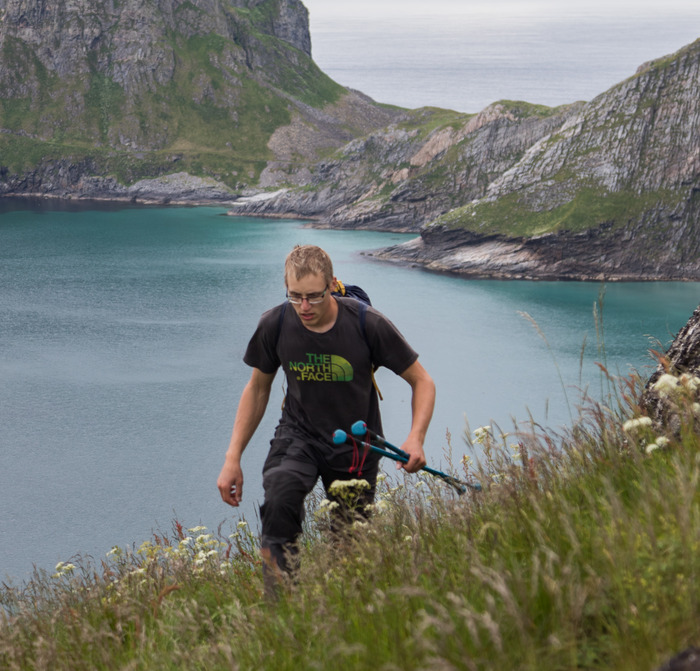
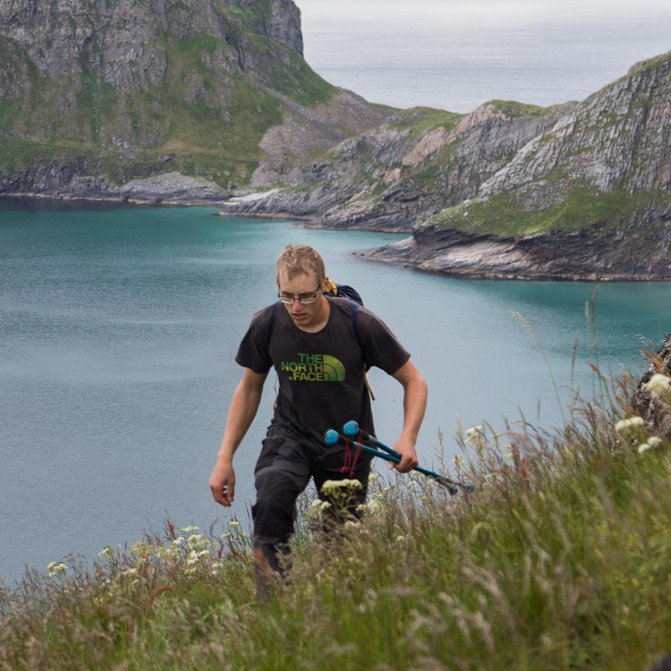
update aspect ratio

diff --git a/index.md b/index.md
@@ -5,7 +5,7 @@ permalink: /
 layout: default
 ---
 
-<img alt="Picture of Romain Caneill" src="/assets/images/romain.jpg" width="40%" style="float: right; margin: 0 0 0 15px;">
+<img alt="Picture of Romain Caneill" src="/assets/images/romain.jpg" width="40%" style="float: right; margin: 0 0 0 15px; aspect-ratio: 1 / 1;">
 
 # About Me
 
